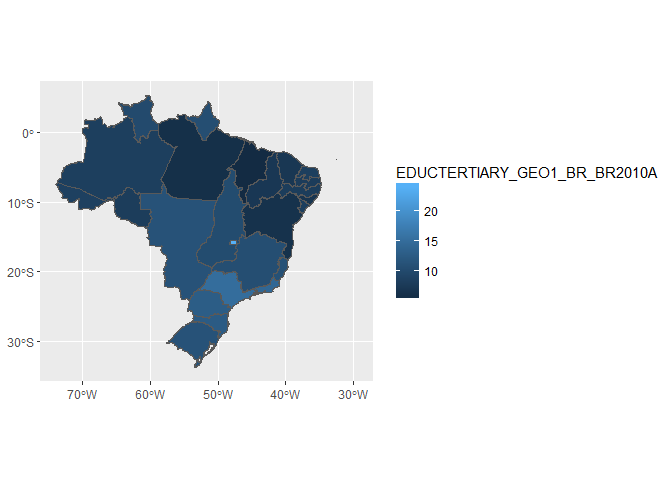
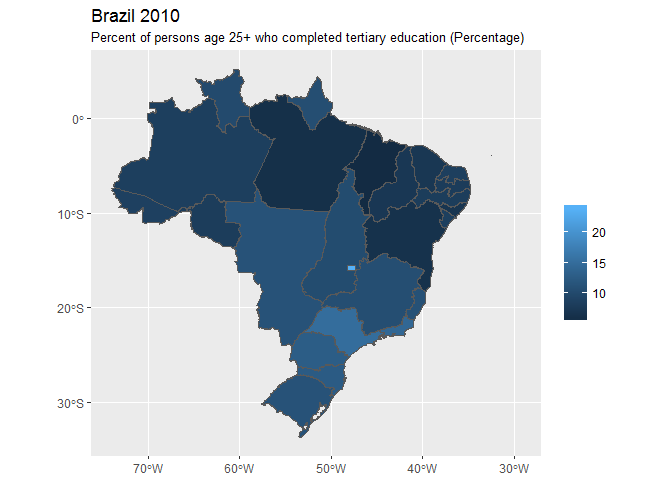
Update readme examples

diff --git a/README.md b/README.md
@@ -94,7 +94,7 @@ table(as_factor(data$TCIG100, levels = "both"))
 
 ### NHGIS
 
-Relies on user downloading the csv file (with header row) and shape files.
+Relies on user downloading the csv file (with or without header row) and shape files (doesn't need to be unzipped).
 
 ``` r
 data <- read_nhgis(
@@ -130,9 +130,22 @@ raster::plot(data)
 
 ![](README-unnamed-chunk-7-1.png)
 
+``` r
+
+# Or can read multiple rasters into a list
+data <- read_terra_raster_list(
+  mpc_root("personal/gfellis/ipumsimport_examples/terra_raster/2552_bundle.zip"),
+  verbose = FALSE
+)
+
+names(data) %>% head()
+#> [1] "PASTURE2000ZM2013"  "PASTURE2000CH2013"  "CROPLAND2000ZM2013"
+#> [4] "CROPLAND2000CH2013" "LCDECIDOPZM2013"    "LCDECIDOPCH2013"
+```
+
 ### Terrapop - Area level data
 
-Relies on zip file from extract (with boundary files for maps)
+Relies on usual extract (with boundary files for maps) either zipped or unzipped
 
 ``` r
 data <- read_terra_area(
@@ -140,12 +153,51 @@ data <- read_terra_area(
   verbose = FALSE
 )
 
+var_label <- ip_var_label(data, EDUCTERTIARY_GEO1_BR_BR2010A)
+var_label
+#> [1] "Percent of persons age 25+ who completed tertiary education (Percentage)"
+
 ggplot(data) +
-  geom_sf(aes(fill = EDUCTERTIARY_GEO1_BR_BR2010A))
+  geom_sf(aes(fill = EDUCTERTIARY_GEO1_BR_BR2010A)) + 
+  scale_fill_continuous("") + 
+  ggtitle("Brazil 2010", subtitle = var_label)
 ```
 
 ![](README-unnamed-chunk-8-1.png)
 
+``` r
+data <- read_terra_area(
+  mpc_root("personal/gfellis/ipumsimport_examples/terra_area/2644_bundle.zip"),
+  data_layer = "DZ",
+  verbose = FALSE
+)
+
+data
+#> Simple feature collection with 48 features and 5 fields
+#> geometry type:  MULTIPOLYGON
+#> dimension:      XY
+#> bbox:           xmin: -8.673868 ymin: 18.96003 xmax: 11.98891 ymax: 37.09514
+#> epsg (SRID):    4326
+#> proj4string:    +proj=longlat +datum=WGS84 +no_defs
+#> # A tibble: 48 x 6
+#>             LABEL GEOID TOTPOP_DZ_FLAD_DZ08_TP
+#>             <chr> <dbl>                  <dbl>
+#>  1 Oum el Bouaghi   374                 621611
+#>  2          Jijel   363                 636950
+#>  3         Illizi   362                  52332
+#>  4       Relizane   375                 726180
+#>  5 Sidi Bel Abbès   378                 604745
+#>  6          Sétif   377                1489985
+#>  7          Saïda   376                 330642
+#>  8         Guelma   361                 482427
+#>  9         Annaba   345                 609499
+#> 10          Alger   344                2988146
+#> # ... with 38 more rows, and 3 more variables:
+#> #   FIGHAR_total_area_areal_DZ_FLAD_GLICROPS <dbl>,
+#> #   FIGHAR_percent_area_areal_DZ_FLAD_GLICROPS <dbl>, geometry <S3:
+#> #   sfc_MULTIPOLYGON>
+```
+
 ### Terrapop - Microlevel data
 
-Relies on zip file from extract (with boundary files for maps) This file is huge, so won't run on a local machine, but I need IT's help getting some dependcies set-up to run this on the mpcstats servers.
+Relies on usual extract file (with boundary files for maps) either zipped or unzipped This file is huge, so won't run on a local machine, but I need IT's help getting some dependcies set-up to run this on the mpcstats servers.
